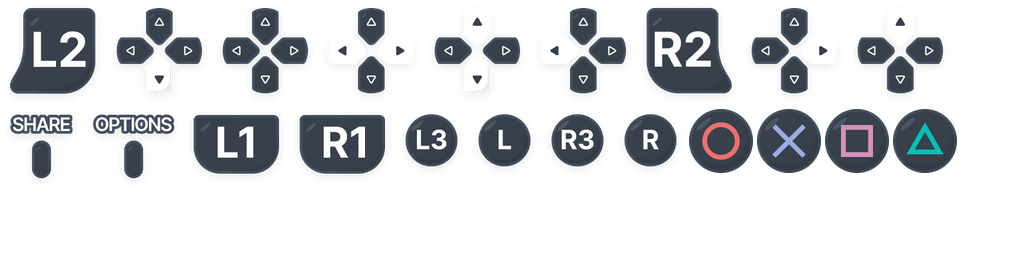
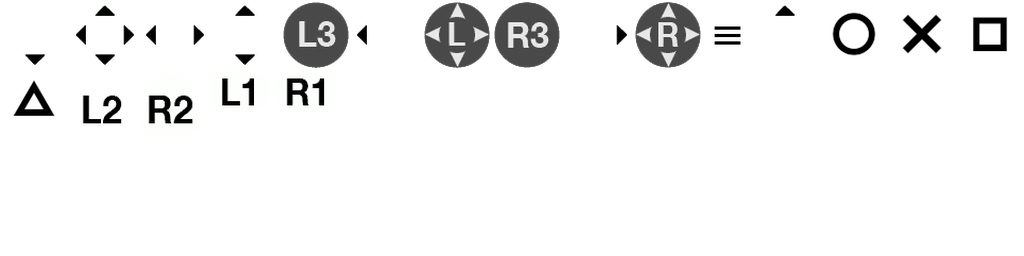
Button symbols: the PS5 style is drawn from the new button pack
build_glyphs.py --ps5-pack rebuilds only the PS5 atlas and its glyphs.json entry from a flat folder of 64 px buttons.

Changed region(s): [[0.0, 0.0, 0.9375, 0.7188], [0.375, 0.0, 1.0, 0.375], [0.125, 0.2812, 0.1562, 0.3125]]

diff --git a/tools/glyphs/build_glyphs.py b/tools/glyphs/build_glyphs.py
@@ -61,6 +61,18 @@ PAD_STYLES = {
         "lstick": "T_S_L_Retro", "rstick": "T_S_R_Retro"}),
 }
 
+# The PS5 style from a flat folder of one 64 px PNG per button ("ps5_a_butt.png"): the pack's A, B, X and Y
+# are the pad's bottom, right, left and top buttons (Cross, Circle, Square, Triangle). It has no L3/R3 click
+# art but the stick icons, so L3 and R3 are the plain stick icons and the stick symbols the all-directions ones.
+PS5_PACK_REFERENCE = 60  # source pixels of its round face button
+PS5_PACK = {
+    "cross": "a_butt", "circle": "b_butt", "square": "x_butt", "triangle": "y_butt",
+    "l1": "lb_butt", "r1": "rb_butt", "l2": "lt_butt", "r2": "rt_butt",
+    "start": "start_butt", "select": "back_butt",
+    "dpad": "dpad_all", "dpad_ud": "dpad_updown", "dpad_lr": "dpad_leftright",
+    "up": "dpad_up", "down": "dpad_down", "left": "dpad_left", "right": "dpad_right",
+    "l3": "lstick_none", "r3": "rstick_none", "lstick": "lstick_all", "rstick": "rstick_all"}
+
 # Keyboard file stem (between T_ and _Key_Dark) -> the names the game looks keys up by: SDL's scancode
 # name, lower-case, spaces dropped (input.hpp, InputPrimaryBindingName), or mouse1..mouse5.
 KEY_ALIASES = {
@@ -95,10 +107,10 @@ def make_xbox_menu(src_dir):
     return out
 
 
-def pack(images):
-    """Shelf-packs {name: RGBA image}, each cropped to its pixels and scaled by CELL/REFERENCE.
+def pack(images, reference=REFERENCE):
+    """Shelf-packs {name: RGBA image}, each cropped to its pixels and scaled by CELL/reference.
     Returns (atlas, {name: [x, y, w, h]})."""
-    scale = CELL / REFERENCE
+    scale = CELL / reference
     crops = {}
     for name, im in images.items():
         box = im.getchannel("A").getbbox()
@@ -134,12 +146,42 @@ def pack(images):
     return atlas, rects
 
 
+def build_ps5_pack(folder, out):
+    images = {}
+    missing = []
+    for name, stem in PS5_PACK.items():
+        path = os.path.join(folder, "ps5_" + stem + ".png")
+        if os.path.exists(path):
+            images[name] = load(path)
+        else:
+            missing.append(path)
+    atlas, rects = pack(images, PS5_PACK_REFERENCE)
+    atlas.save(os.path.join(out, "ps5.png"), optimize=True)
+    index_path = os.path.join(out, "glyphs.json")
+    with open(index_path, encoding="utf-8") as f:
+        index = json.load(f)
+    index["styles"]["ps5"] = {"atlas": "ps5.png", "glyphs": rects}
+    with open(index_path, "w", encoding="utf-8") as f:
+        json.dump(index, f, indent=1, sort_keys=True)
+        f.write("\n")
+    for m in missing:
+        print("missing:", m, file=sys.stderr)
+    print("ps5", len(rects), "glyphs")
+    return 1 if missing else 0
+
+
 def main():
     ap = argparse.ArgumentParser()
-    ap.add_argument("--src", required=True)
+    ap.add_argument("--src")
+    ap.add_argument("--ps5-pack", help="folder of ps5_*.png buttons: rebuilds only the ps5 atlas from it, "
+                    "keeping the other styles in the existing glyphs.json")
     ap.add_argument("--out", default=os.path.join(os.path.dirname(__file__), "..", "..", "port", "glyphs"))
     args = ap.parse_args()
     os.makedirs(args.out, exist_ok=True)
+    if args.ps5_pack:
+        return build_ps5_pack(args.ps5_pack, args.out)
+    if not args.src:
+        ap.error("--src or --ps5-pack is required")
     index = {"reference": CELL, "styles": {}}
     missing = []
 

diff --git a/docs/GLYPHS.md b/docs/GLYPHS.md
@@ -33,3 +33,7 @@ drawn scaled so a round button fills the height of its slot. `tools/glyphs/build
 them from the source art (P4Gamepad/Retro, P5Gamepad/Retro, XGamepad/Alt 2, SGamepad/Retro, Keyboard_Mouse/Dark);
 Xbox's Menu button and the keyboard style's cursor-key clusters are composed by the tool. The atlases are read with
 stb_image (a pinned download, as stb_truetype is).
+
+The PS5 style is drawn from a flat pack of 64 px buttons (`ps5_a_butt.png`, `ps5_lstick_all.png`...):
+`tools/glyphs/build_glyphs.py --ps5-pack <folder>` rebuilds only `ps5.png` and its entry in `glyphs.json`, leaving the
+other styles. The pack's A, B, X and Y are Cross, Circle, Square and Triangle; L3 and R3 are its plain stick icons.
